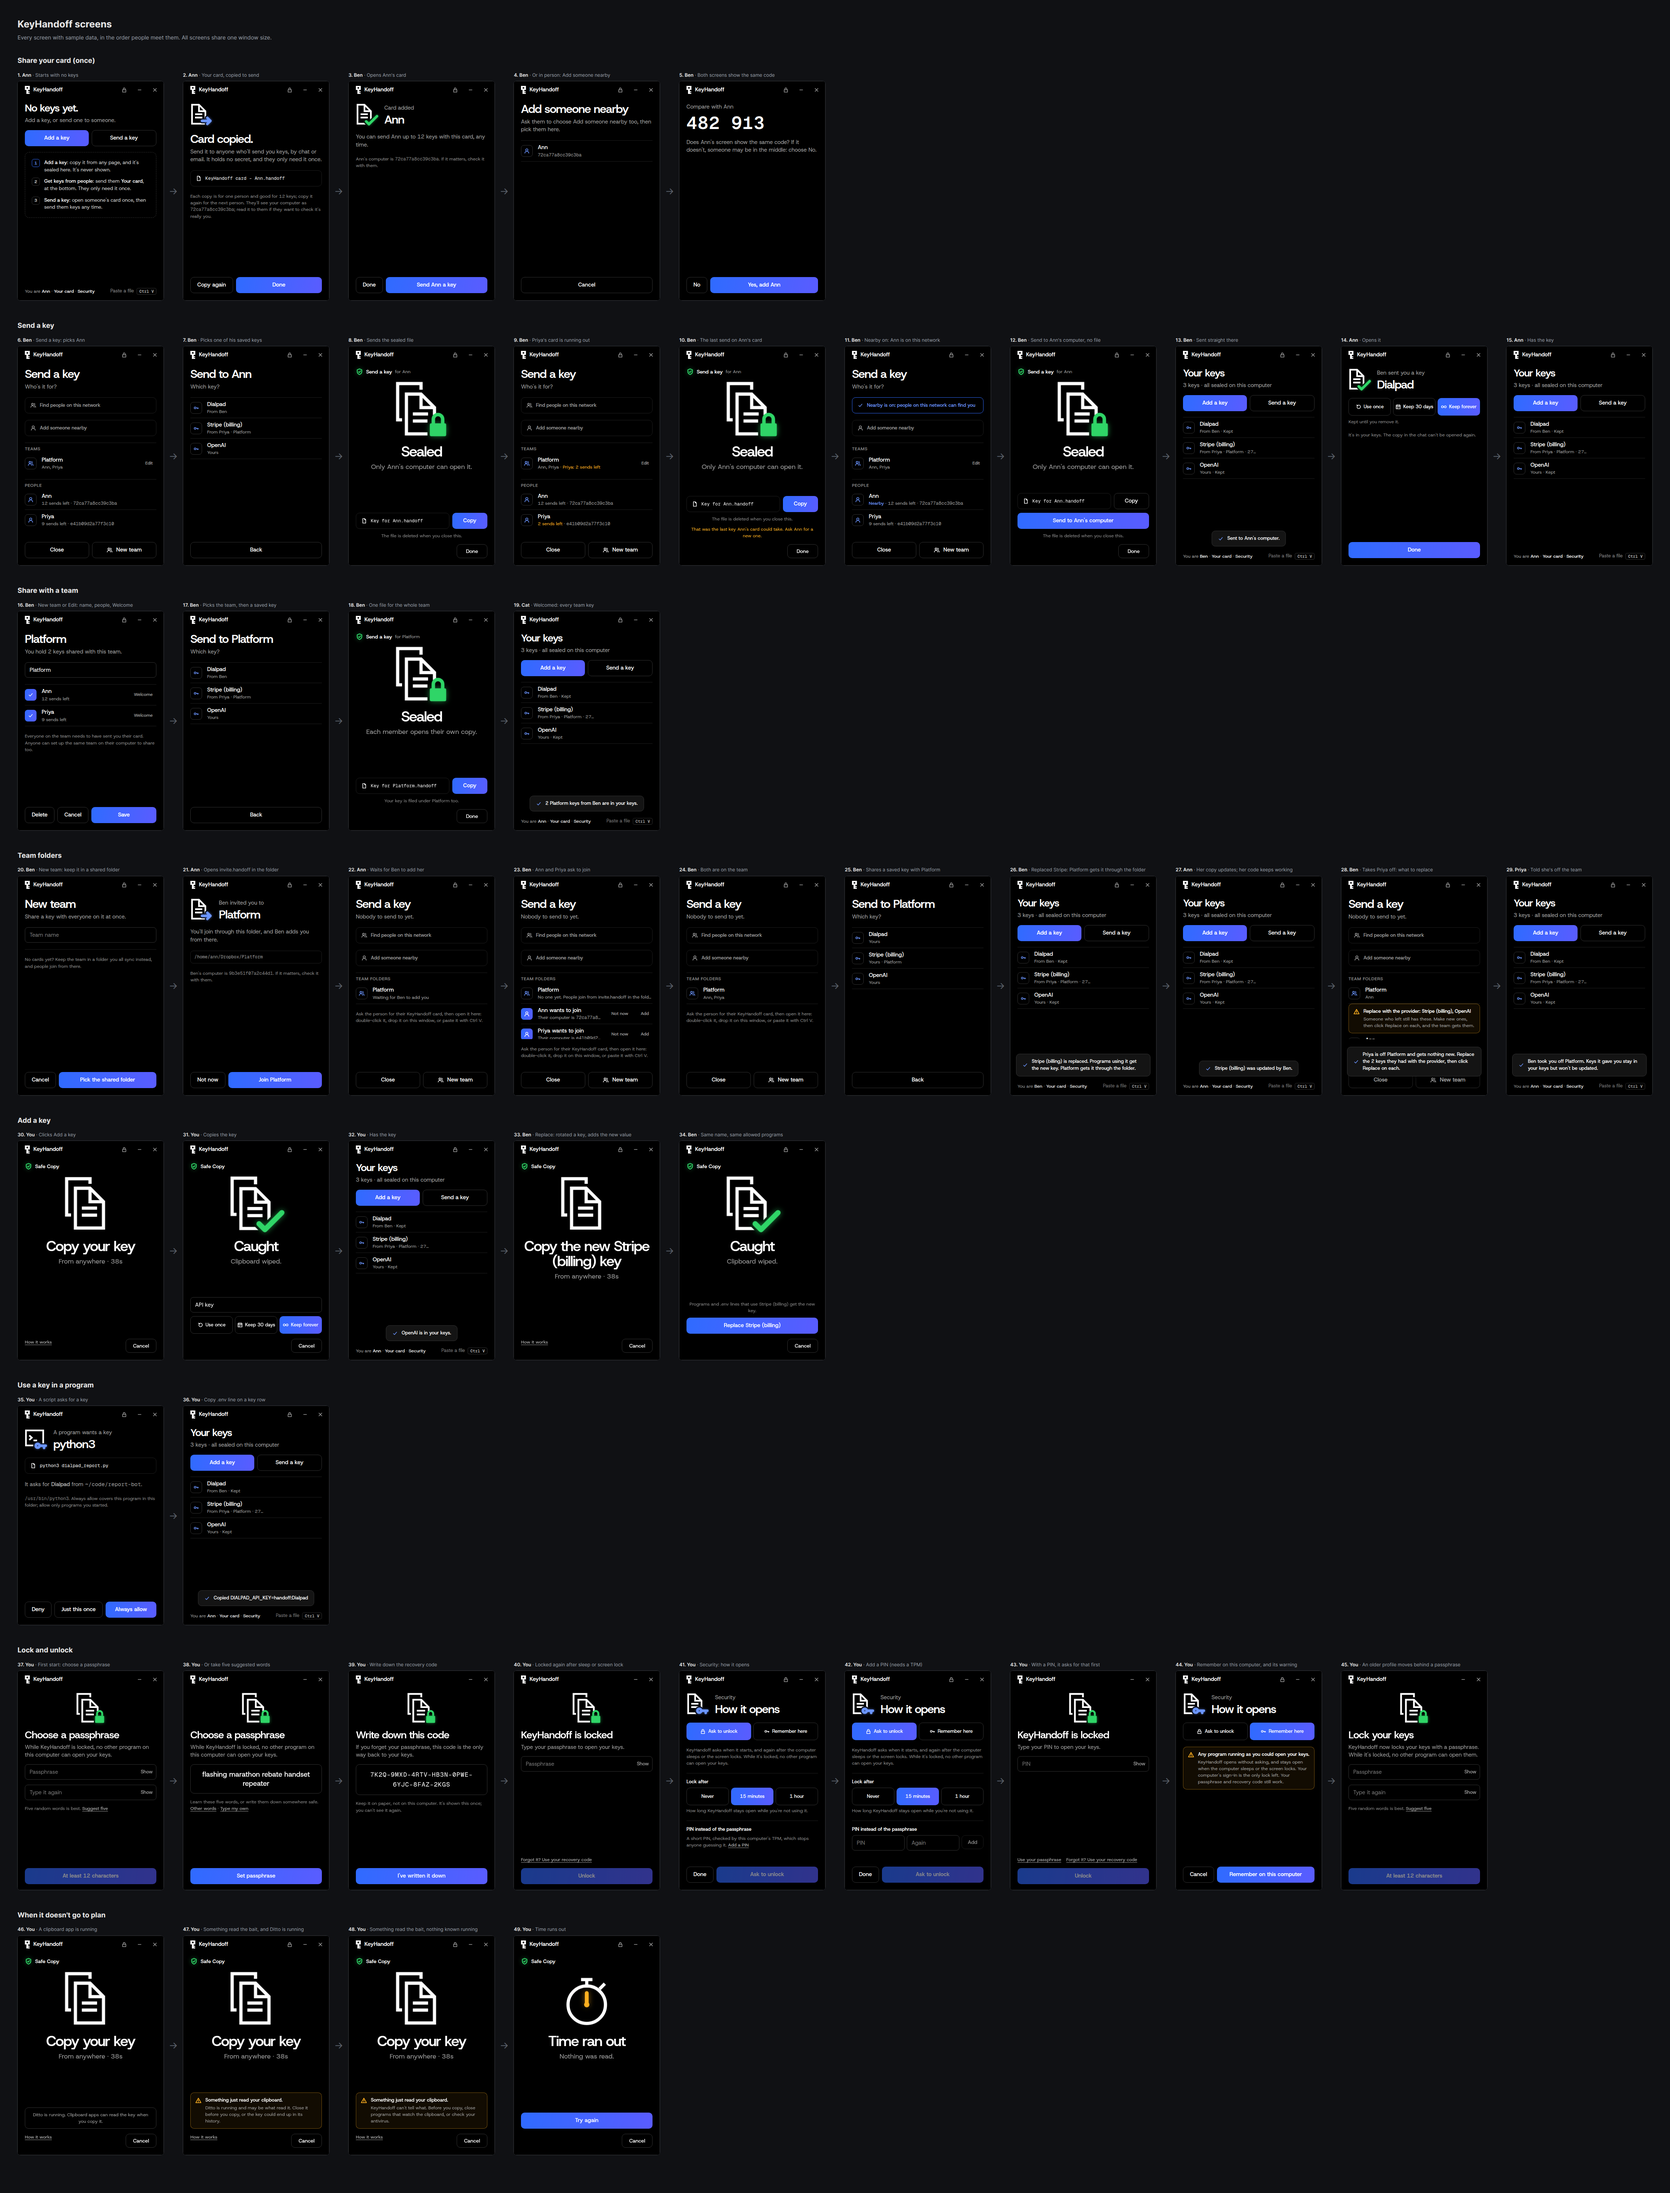
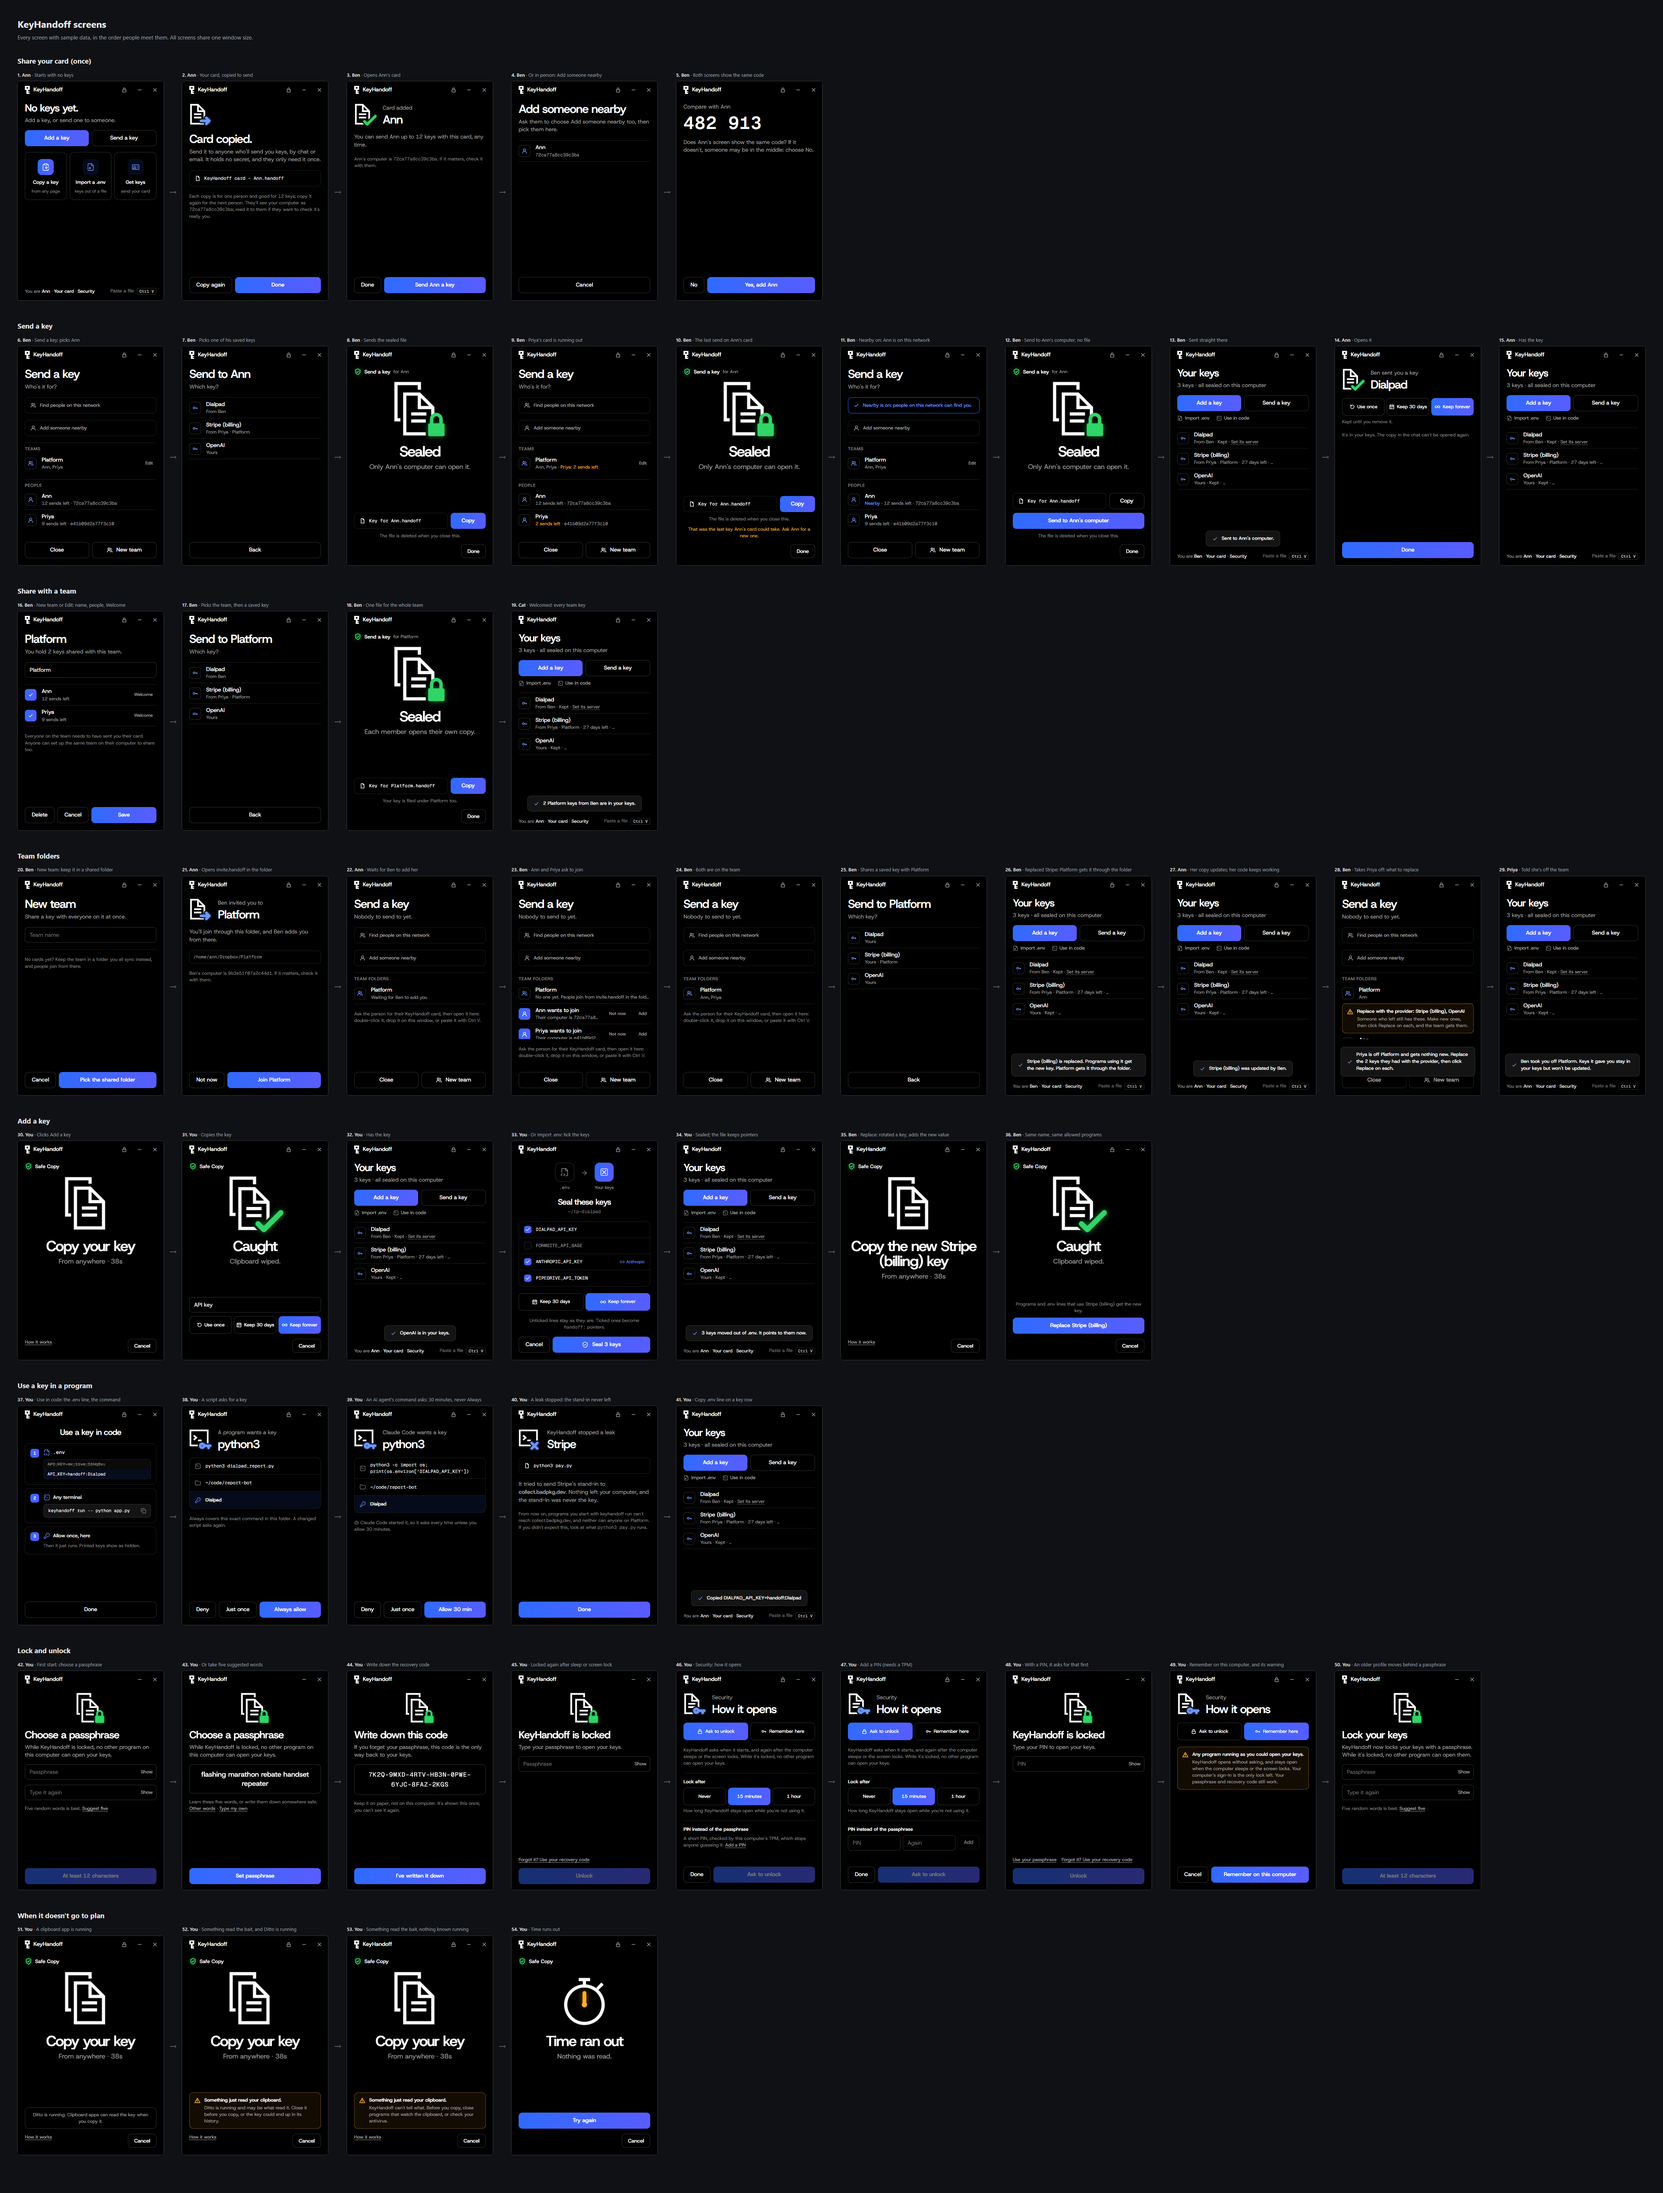
Import sheet keeps Seal in view with long .env files; screens board shows import and Use in code

diff --git a/src/Visual.tsx b/src/Visual.tsx
@@ -77,7 +77,7 @@ export function ImportSheet({ imp, keep, run }: { imp: ImportView; keep: Keep; r
   const n = chosen.size;
   return (
     <div className="sheet" ref={sheet}>
-      <Flow from={<FileCode2 size={30} strokeWidth={1.5} />} fromLabel={imp.file} to={<Vault size={30} strokeWidth={1.5} />} toLabel="Your keys" />
+      <Flow from={<FileCode2 size={24} strokeWidth={1.5} />} fromLabel={imp.file} to={<Vault size={24} strokeWidth={1.5} />} toLabel="Your keys" />
       <div className="center-text">
         <h2 className="title">Seal these keys</h2>
         <p className="help mono">{imp.folder}</p>
@@ -106,7 +106,7 @@ export function ImportSheet({ imp, keep, run }: { imp: ImportView; keep: Keep; r
       </div>
       <p className="help center">Unticked lines stay as they are. Ticked ones become <span className="mono">handoff:</span> pointers.</p>
       <span className="grow-space" />
-      <div className="btn-row">
+      <div className="btn-row pinned">
         <button className="btn secondary" onClick={() => void run(api.closeImport())}>Cancel</button>
         <button className="btn primary grow" disabled={n === 0} onClick={() => void run(api.finishImport([...chosen], how))}>
           <ShieldCheck size={18} strokeWidth={2} aria-hidden />

diff --git a/scripts/site-shots/board.html b/scripts/site-shots/board.html
@@ -67,10 +67,13 @@
           ["listening-you", "You", "Clicks Add a key", SAFE],
           ["caught-you", "You", "Copies the key", SAFE],
           ["home-added", "You", "Has the key", MAIN],
+          ["import", "You", "Or Import .env: tick the keys", MAIN],
+          ["home-imported", "You", "Sealed; the file keeps pointers", MAIN],
           ["replacing", "Ben", "Replace: rotated a key, adds the new value", SAFE],
           ["replace-caught", "Ben", "Same name, same allowed programs", SAFE],
         ]],
         ["Use a key in a program", [
+          ["home", "You", "Use in code: the .env line, the command", MAIN, ["Use in code"]],
           ["program", "You", "A script asks for a key", MAIN],
           ["program-agent", "You", "An AI agent's command asks: 30 minutes, never Always", MAIN],
           ["alert", "You", "A leak stopped: the stand-in never left", MAIN],

diff --git a/scripts/site-shots/tauri-mock.ts b/scripts/site-shots/tauri-mock.ts
@@ -106,6 +106,19 @@ const SCENES: Record<string, Partial<View>> = {
   "listening-you": { safe: safe("listening", null) },
   "caught-you": { safe: safe("caught", null) },
   "home-added": { notice: "OpenAI is in your keys." },
+  import: {
+    import: {
+      file: ".env",
+      folder: "~/tp-dialpad",
+      vars: [
+        { var: "DIALPAD_API_KEY", likely: true, kept_as: null },
+        { var: "FORMSITE_API_BASE", likely: false, kept_as: null },
+        { var: "ANTHROPIC_API_KEY", likely: true, kept_as: "Anthropic" },
+        { var: "PIPEDRIVE_API_TOKEN", likely: true, kept_as: null },
+      ],
+    },
+  },
+  "home-imported": { notice: "3 keys moved out of .env. It points to them now." },
   program: {
     program: { name: "python3", path: "/usr/bin/python3", command: "python3 dialpad_report.py", folder: "~/code/report-bot", keys: ["Dialpad"], agent: null },
   },

diff --git a/src/styles.css b/src/styles.css
@@ -314,3 +314,6 @@ kbd { font: 500 11px var(--mono); color: #d4d4d4; border: 1px solid var(--line-s
 .fact.on svg { color: var(--accent-ink); }
 .inline-ico { display: inline; vertical-align: -2px; }
 .btn-row .btn { min-width: 0; }
+.btn-row.pinned { position: sticky; bottom: -20px; margin-bottom: -20px; padding: 10px 0 20px; background: var(--ground); }
+.flow-ico { width: 52px; height: 52px; border-radius: 14px; }
+.flow { padding-top: 0; }
